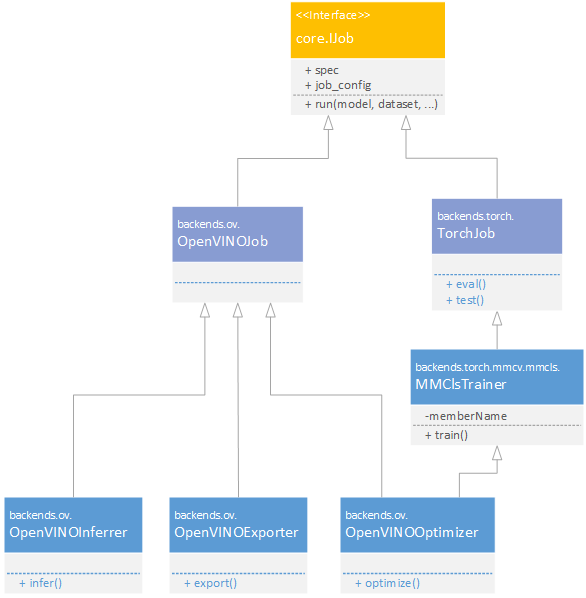
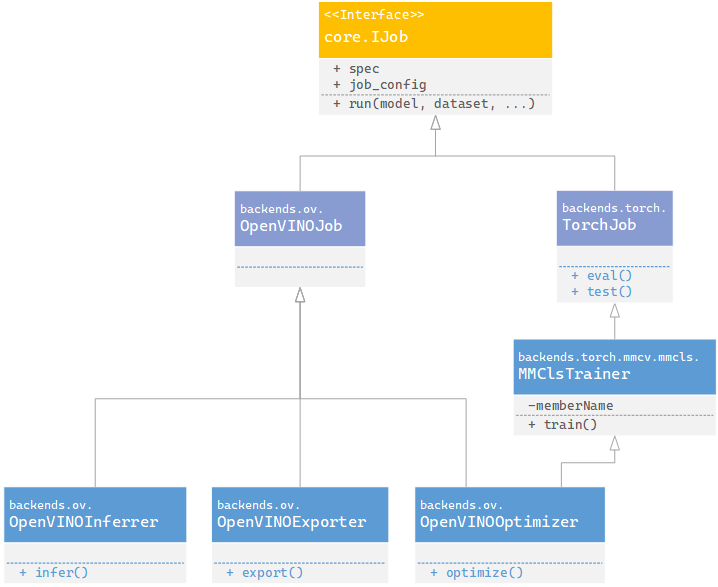
major updates on OTX.md

diff --git a/OTX.md b/OTX.md
@@ -24,7 +24,7 @@ The diagram below illustrates key components in a high-level design (the colors 
 </figure>
 
 # Architecturally-significant use cases
-The diagram below shows architecturally-significant use cases. OTX use cases cover from model building to final deployment. Users can use OTX CLI for finding and building models and recipes, training with dataset, and optimizing model performance for final deployment. Users also can generate a self-contained package for exportable codes with a single command. API users can customize the built-in workflow for their purpose. For example, new learning methods can be registered or users can extend core APIs for supporting other backends like TensorFlow or ONNX.
+The diagram below shows architecturally-significant use cases. OTX use cases cover from model building to final deployment. Users can use OTX CLI for finding and building models and tasks, training with dataset, and optimizing model performance for final deployment. Users also can generate a self-contained package for exportable codes with a single command. API users can customize the built-in workflow for their purpose. For example, new learning methods can be registered or users can extend core APIs for supporting other backends like TensorFlow or ONNX.
 
 <figure>
 <img src="docs/source/_images/uc.png" width="550px">
@@ -60,9 +60,9 @@ otx train <data.yaml> <task.yaml>
 |   |`--model <task.yaml>`|`Registry.find_models(task)`|list of models for the given task (e.g. resnet18-atss-det)|
 |   |`--backbone <model.yaml>`|`Registry.find_backbones(model)`|list of backbones for the given model (e.g. resnet18)|
 |   |`--all`|`Registry.find_*()`|recursive call of all above|
-|`otx build`|`--model <model.yaml> --backbone <backbone.yaml>`|`Builder.build_model(model, backbone)`|<*(backbone)*_model.yaml> will be saved to user’s workspace after replacing model.backbone attribute to the given *backbone*|
-|   |`--task <task.yaml> --data <data.yaml>`|`Builder.build_task(data)`|analyze data and generate <task.yaml> automatically and dump it to user’s workspace|
-|   |`--task <task.yaml> --model <model.yaml>`|`Builder.build_task(task(old), model)`|<*(model)*_task.yaml> will be added to user’s workspace after updating task.model attribute to the given *model*|
+|`otx build`|`--model <model.yaml> --backbone <backbone.yaml>`|`Builder.build_model_config(model, backbone)`|<*(backbone)*_model.yaml> will be saved to user’s workspace after replacing model.backbone attribute to the given *backbone*|
+|   |`--task <task.yaml> --data <data.yaml>`|`Builder.build_task_config(data)`|analyze data and generate <task.yaml> automatically and dump it to user’s workspace|
+|   |`--task <task.yaml> --model <model.yaml>`|`Builder.build_task_config(task(old), model)`|<*(model)*_task.yaml> will be added to user’s workspace after updating task.model attribute to the given *model*|
 |`otx train`|`<data.yaml> <task.yaml>`|`Task.train(data)`|path to model ckpt trained on *data*|
 |`otx eval`|`<path-to-ckpt> <data.yaml>`<sup>[1](#note1)</sup>|`Task.eval(data)`|evaluation (if there is ground-truth) and/or prediction result on *data*|
 |   |`<path-to-ckpt> <path-to-input>`|`Task.eval(input)`|prediction result on a single image or video *input*|
@@ -72,7 +72,7 @@ otx train <data.yaml> <task.yaml>
 |~~`otx demo`(deprecated)~~|   |  |  |
 |`otx deploy`|`<path-to-ckpt>`|`Task.deploy()`|create a zip file containing all exportable codes in a self-contained manner. This includes both PyTorch and OpenVINO inferences|
 
-<a name="#note1"><sup>1</sup></a>ckpt file has a metadata for recipe information. For more information, refer to sequence diagram in OTX API.
+<a name="#note1"><sup>1</sup></a>ckpt file has a metadata for task information. For more information, refer to sequence diagram in OTX API.
 
 <a name="#note2"><sup>2</sup></a>For more information on optimization types, refer to [OpenVINO Model Optimization Guide](https://docs.openvino.ai/latest/openvino_docs_model_optimization_guide.html).
 
@@ -81,6 +81,8 @@ One of unique features of OTX is task auto-configurator. Unlike other AI trainin
 
 **_NOTE:_** Not all task types can be autoconfigured correctly since the same data can be mapped to different tasks. For example, a dataset having no annotation can be mapped into either unsupervised representational learning or anomaly detection. In such cases, we will recommend one of them based on the task type popularity.
 
+**_NOTE2:_** OTX will use label and data statistics computed in Datumaro.
+
 <figure>
 <img src="docs/source/_images/autoconfig.png" width="800px">
 <figcaption></figcaption>
@@ -88,37 +90,37 @@ One of unique features of OTX is task auto-configurator. Unlike other AI trainin
 
 # OTX API
 
-OTX API consists of three component groups. The first group defines entities for constructing CLIs, registration of models and recipes, and classes for dataset, which could be used and/or modified by users. The second group is for core components like defining jobs and model architecture, which are intended for internal execution. And the third group specifies actual backend implementations that depend on platforms like PyTorch, MMCV, and OpenVINO. The figure below illustrates class diagram, which partially shows backend implementations.
+OTX API consists of three component groups. The first group defines entities for constructing CLIs, registration of models and tasks, and interfaces for dataset, which could be used or modified by users. The second group is for core components like defining jobs and model architecture, which are intended for internal execution. And the third group specifies backend implementations that depend on platforms like PyTorch, MMCV, and OpenVINO. The figure below illustrates class diagram, which partially shows backend implementations.
 <figure>
-<img src="docs/source/_images/class.png" width="800px">
+<img src="docs/source/_images/class.png" width="1000px">
 <figcaption></figcaption>
 </figure>
 
-- Dataset class inherits datumaro.components.Dataset and works as a base class for other dataset classes from PyTorch and MMCV. For example, MMClsDataset is an adapter for dataset in MMClssification framework. Dataset class provides a rich interface for many task types like classification, detection, segmentation, and so on with widely-used formats like MS-COCO, LabelMe, Open Images, and ImageNet.
-- Registry class is designed for managing recipes and models either from built-in or user workspace. When initialization, it retrieves all recipes and models from YAML repo and user workspace and loads them into memory. In Registry, there are two resident types, models and recipes. Models are grouped by recipe specification and recipes are grouped by task specification. New models and recipes can be automatically (de)registered if there are untracked changes in user workspace.
-- core.IModel provides a basic interface for creating a model from model configration file, which defines backbone, neck, (task-specific) head, and their names, connections, and parameters. To support jobs with specific checkpoints, this class has checkpoint as a member variable.
-- core.IJob provides a set of interfaces for computational workloads like training and inference. It defines a minimal executable unit in AI workflow. The purpose of job is specified within the class. Every job must implement `run()` method for execution. When model instance is required for specific job, the caller (*Recipe*) will pass the information as an argument. core.IJob depends on core.IModel and api.Dataset.
-- Backends is a set of components that depend on specific ML framework. OTX API uses Pytorch, MMCV, and OpenVINO as main backends for implementing actual models and recipes. For example, OpenVINO jobs can be implemented in its corresponding backend as below.
-    - OpenVINO backends: OpenVINOJob provides a base class for all OpenVINO-related jobs, and OpenVINOInference and OpenVINOExporter classes provides actual implementations. Since OpenVINOOptimizer requires not only OpenVINO but also AI training framework like Pytorch, it inherits both OpenVINOJob and TorchJob simultaneously.
+- `api.Dataset` class inherits datumaro.components.Dataset and works as a base class for other dataset classes from PyTorch and MMCV. For example, MMClsDataset is an adapter for dataset in MMClassification framework. Dataset class provides rich interfaces for many task types like classification, detection, segmentation, and so on with widely-used formats like MS-COCO, LabelMe, Open Images, and ImageNet.
+- `api.Registry` class is designed for managing tasks and models either from built-in or user workspace. When initialization, it retrieves all tasks and models from YAML repo and user workspace and loads them into memory. In Registry, there are two resident types, models and tasks. Models are grouped by task specification, and tasks are grouped by task type specification. New models and tasks can be automatically (de)registered if there are untracked changes in user workspace.
+- `api.Task` class is the main interface for algorithm implementation of specific task type. Actual algorithm implementation should inherit this class and provide a combination of model and job for the task type. Implemented task configuration can be stored as a config file in the registry, and later instantiated from it. The following figure shows examples on algorithm implementation with this api.
 <figure>
-<img src="docs/source/_images/backend-ov.png" width="500px">
+<img src="docs/source/_images/algo.png" width="600px">
 <figcaption></figcaption>
 </figure>
 
-## API sequence for training
+- `core.IModel` provides a basic interface for creating a model from model configuration, which defines backbone, neck, (task-specific) head. Their names, connections, and parameters are used to concretize a specific model. To support jobs with specific checkpoints, this class has checkpoint as a member variable.
+- `core.IJob` provides a set of interfaces for computational workloads like training and inference. It defines a minimal executable unit in AI workflow. The purpose of job is specified within the class. Every job must implement `run()` method for execution. When model instance is required for specific job, the caller (*Task*) will pass the information as an argument. core.IJob depends on core.IModel and api.Dataset.
+- `backends` is a set of components that depend on specific ML frameworks. OTX API uses Pytorch, MMCV, and OpenVINO as main backends for implementing actual models and jobs. For example, OpenVINO jobs can be implemented in their corresponding backend as below.
+    - OpenVINO backends: OpenVINOJob provides a base class for all OpenVINO-related jobs, and OpenVINOInference and OpenVINOExporter classes provides actual implementations. Since OpenVINOOptimizer requires not only OpenVINO but also AI training framework like PyTorch, it inherits both OpenVINOJob and TorchJob simultaneously.
 <figure>
-<img src="docs/source/_images/seq-train.png" width="1200px">
+<img src="docs/source/_images/backend-ov.png" width="600px">
 <figcaption></figcaption>
 </figure>
 
-## API sequence for evaluation (or inference)
+## API sequence for training and evaluation
 <figure>
-<img src="docs/source/_images/seq-eval.png" width="1200px">
+<img src="docs/source/_images/seq-traineval.png" width="1200px">
 <figcaption></figcaption>
 </figure>
 
-## API sequence for model and recipe building
+## API sequence for model and task building
 <figure>
-<img src="docs/source/_images/seq-build.png" width="800px">
+<img src="docs/source/_images/seq-build.png" width="850px">
 <figcaption></figcaption>
 </figure>
